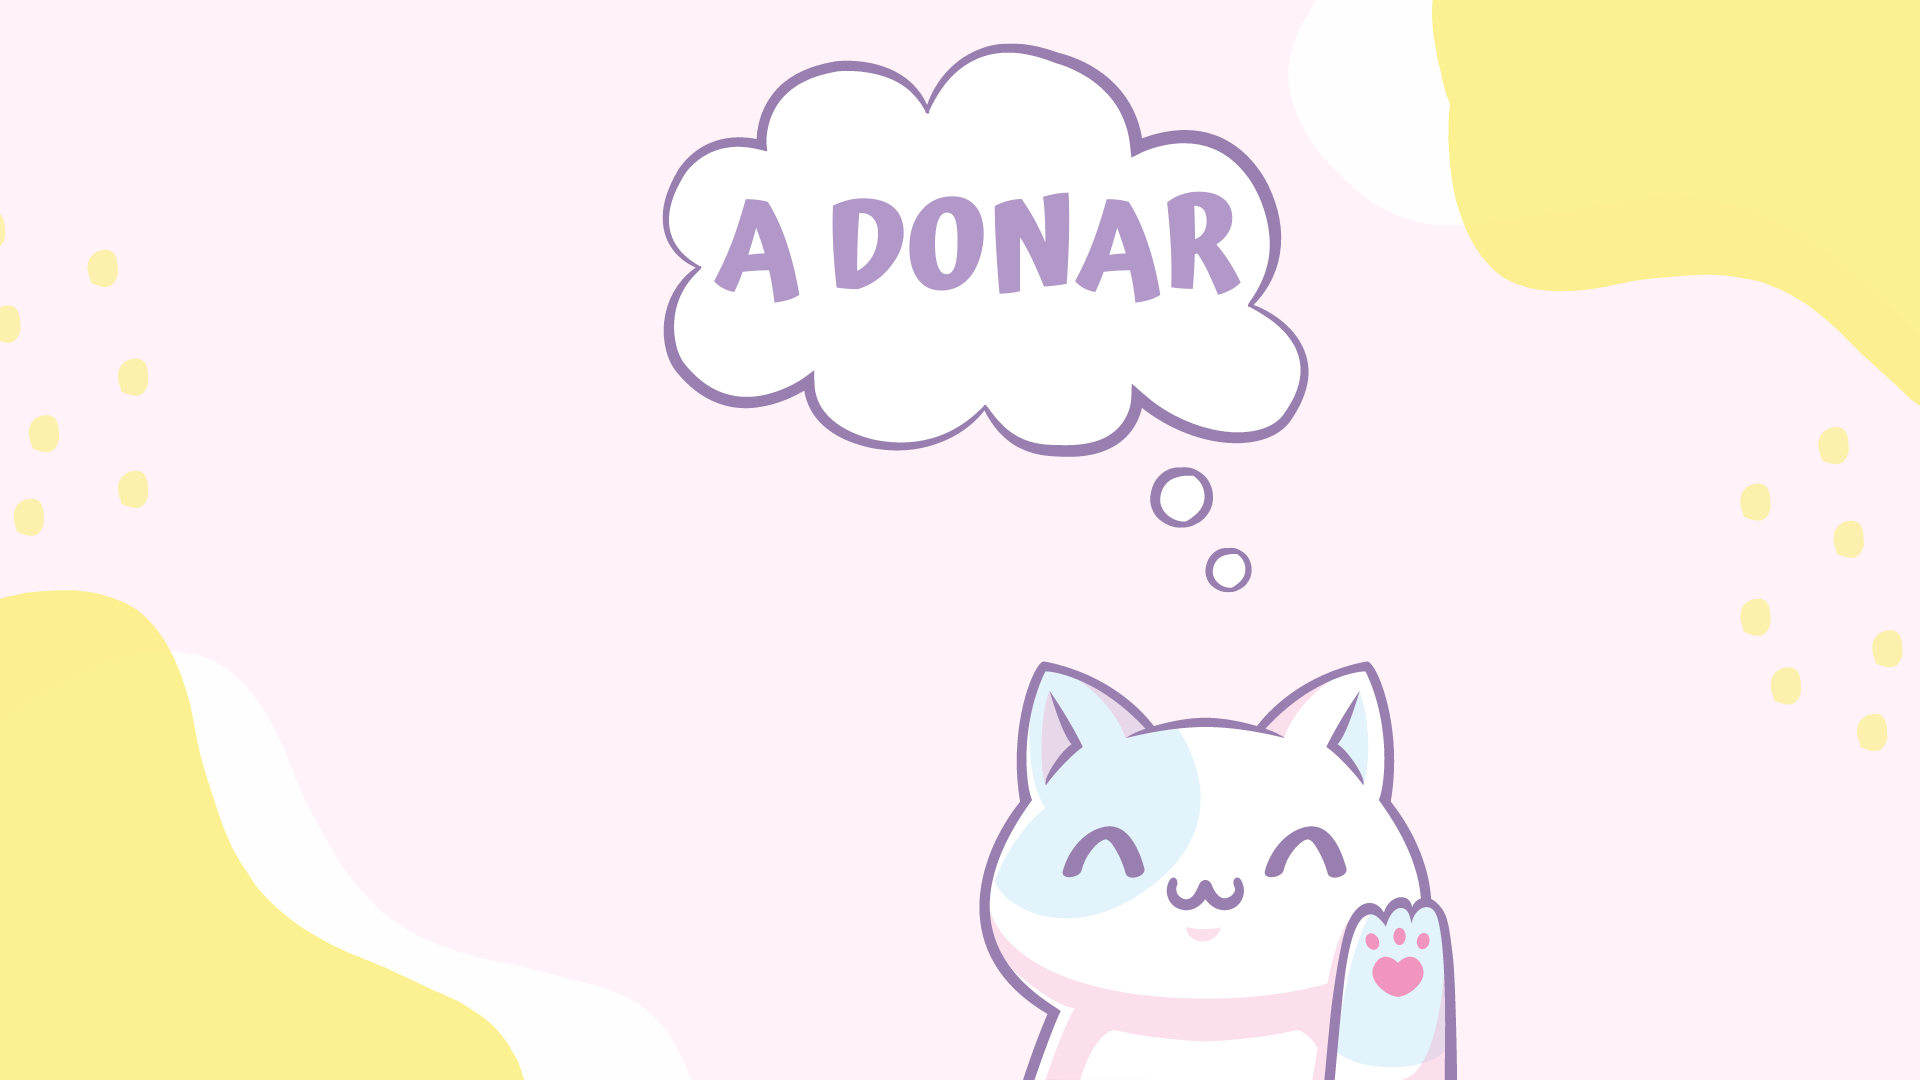
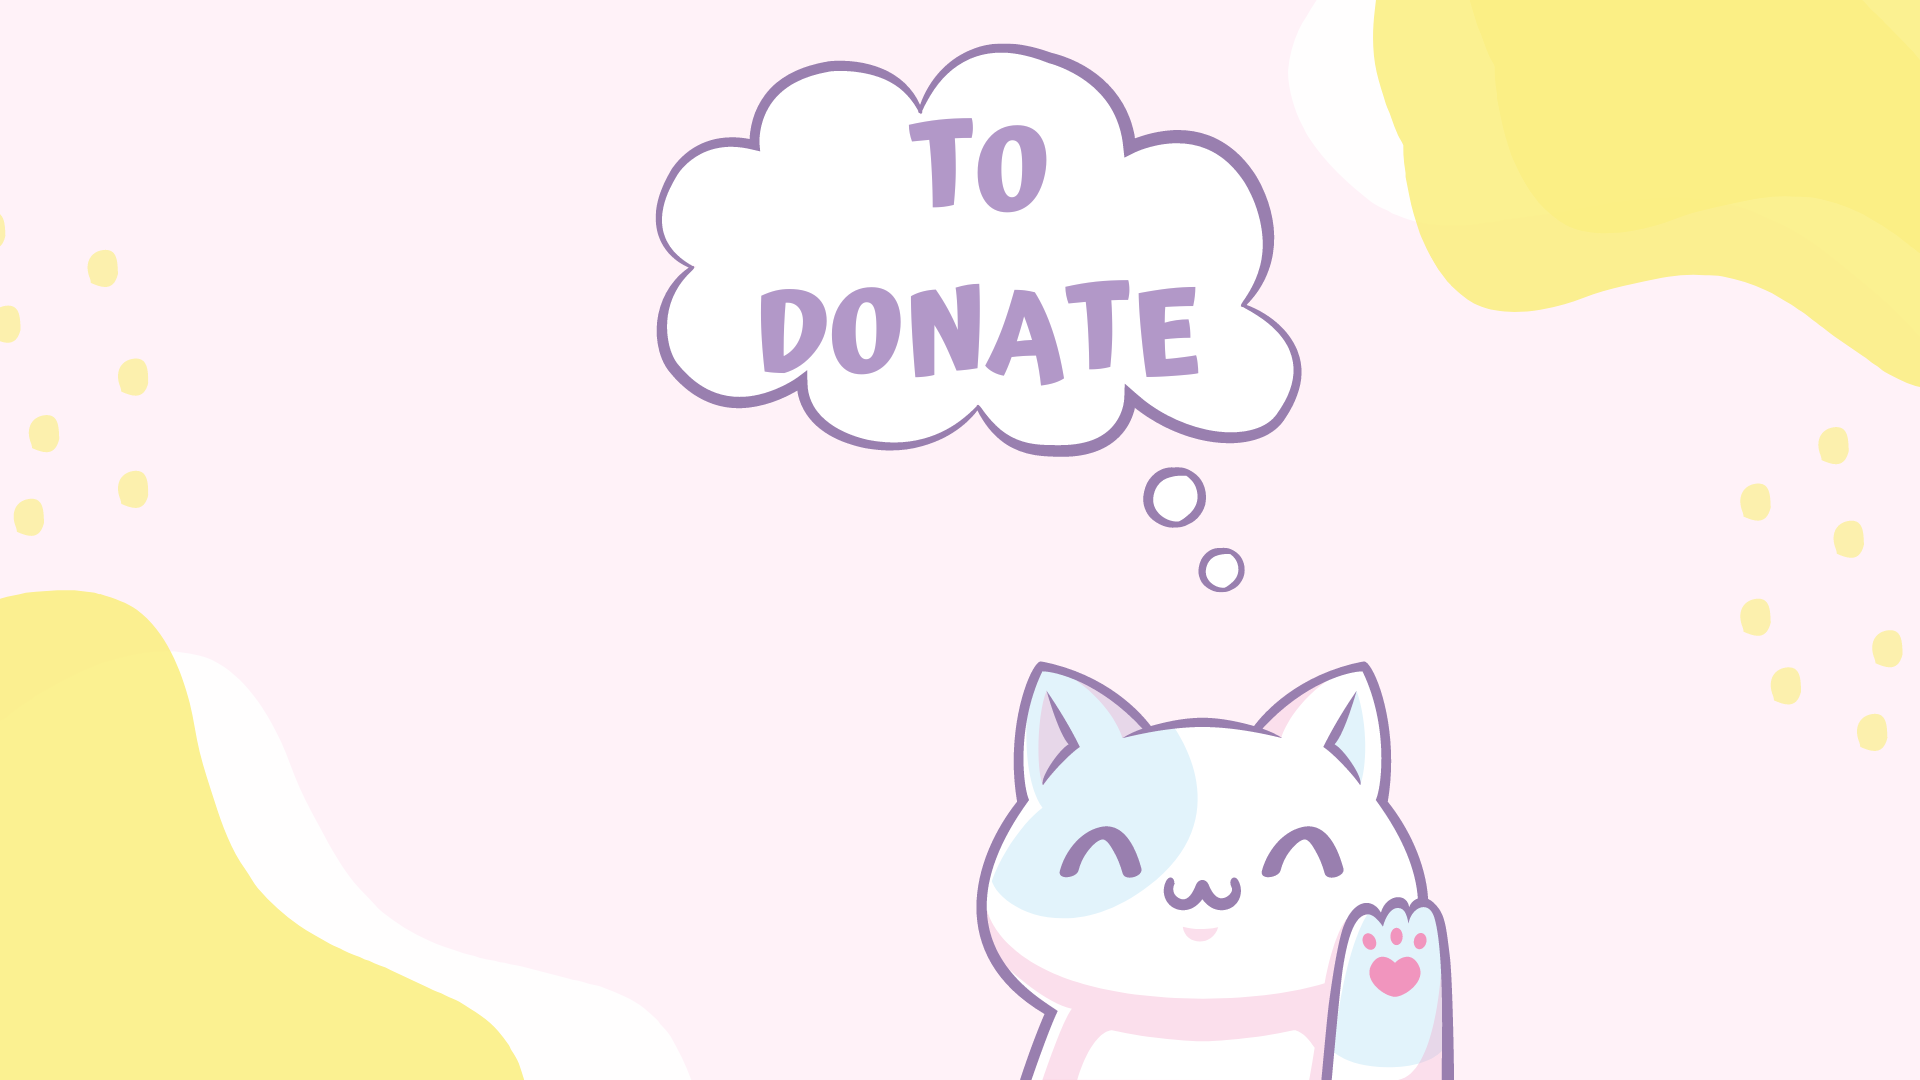
cambiando de posicion al texto y al contenedor de la tarjeta

diff --git a/src/style.css b/src/style.css
@@ -541,27 +541,39 @@ color: #fb02a8;
     box-sizing: border-box;
   }
   .main-validation{
-    background-image:url("images/fondovalidation.png");
     background-size: 100% 100%;
     position: relative;
     background-repeat: no-repeat;
     z-index: 1;
   }
+.texto-donar {
+width: 35%;
+float: left;
+padding-left: 4em;
+}
 .texto-donar .title-validation{
-  width: 80%;
-  padding-top: 20px;
-  padding-bottom: 15px;
-  color: rgb(194, 2, 219);
-  text-shadow: 3px 3px 3px rgba(150, 148, 148, 0.673);
+  padding-top: 2em;
+  padding-bottom: 0.8em;
+  font-size: 1.7em;
+  color: #c103da;
+  text-shadow: 2px 2px 2px rgba(182, 180, 180, 0.628);
+  text-align: justify;
+}
+.texto-donar .text-validation{
+  text-align: justify;
+  color: rgb(49, 49, 49);
+  font-size: 1.1em;
+  padding-bottom: 0.5em;
 }
 
 .contenedor {
-  width: 94%;
+  width: 65%;
+  float: right;
   /*--límite para que no sea muy ancho con el max-width en caso el usuario acceda a la página desde una pantalla más grande que la de nosotros--*/
   max-width: 900px;
-  padding: 40px 20px;
+  padding: 20px;
   /*--para centrar la página de manera horizontal se usa el margin auto --*/
-  margin: auto;
+  margin: 0 auto;
   /*--Se trabaja con flexbox porque tenemos la tarjeta, un botón y el formulario --*/
   display: flex;
   /*-- se utilizó flex direccion para que los elementos como el botón y el formulario no se desplieguen hacia le derecha, sino mantenga el orden hacia abajo-*/
